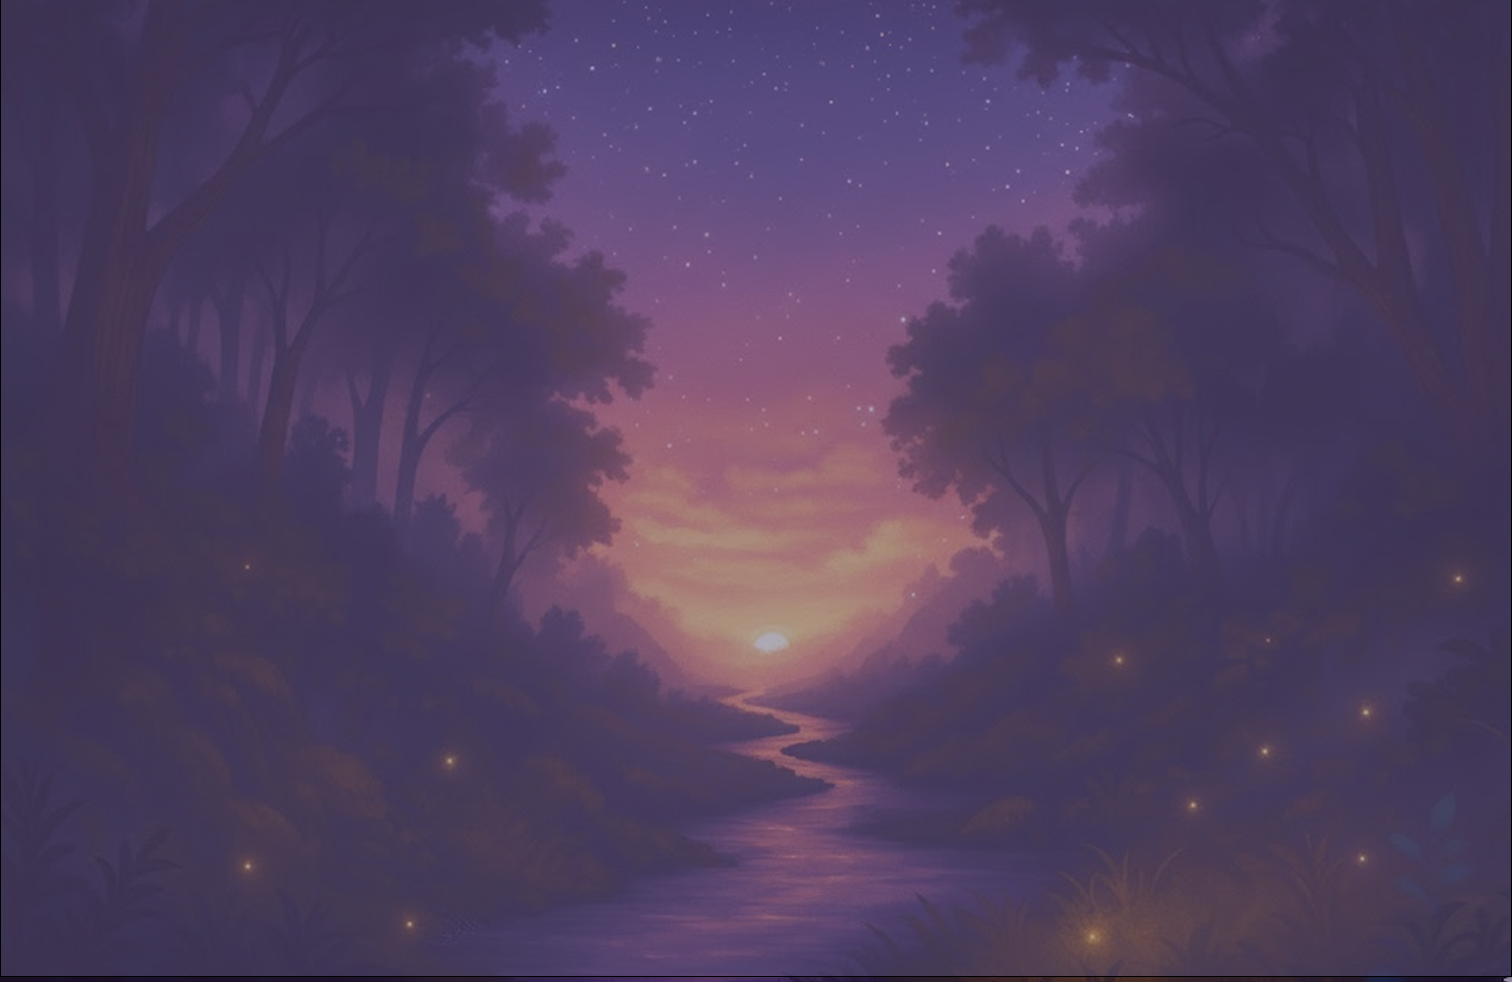
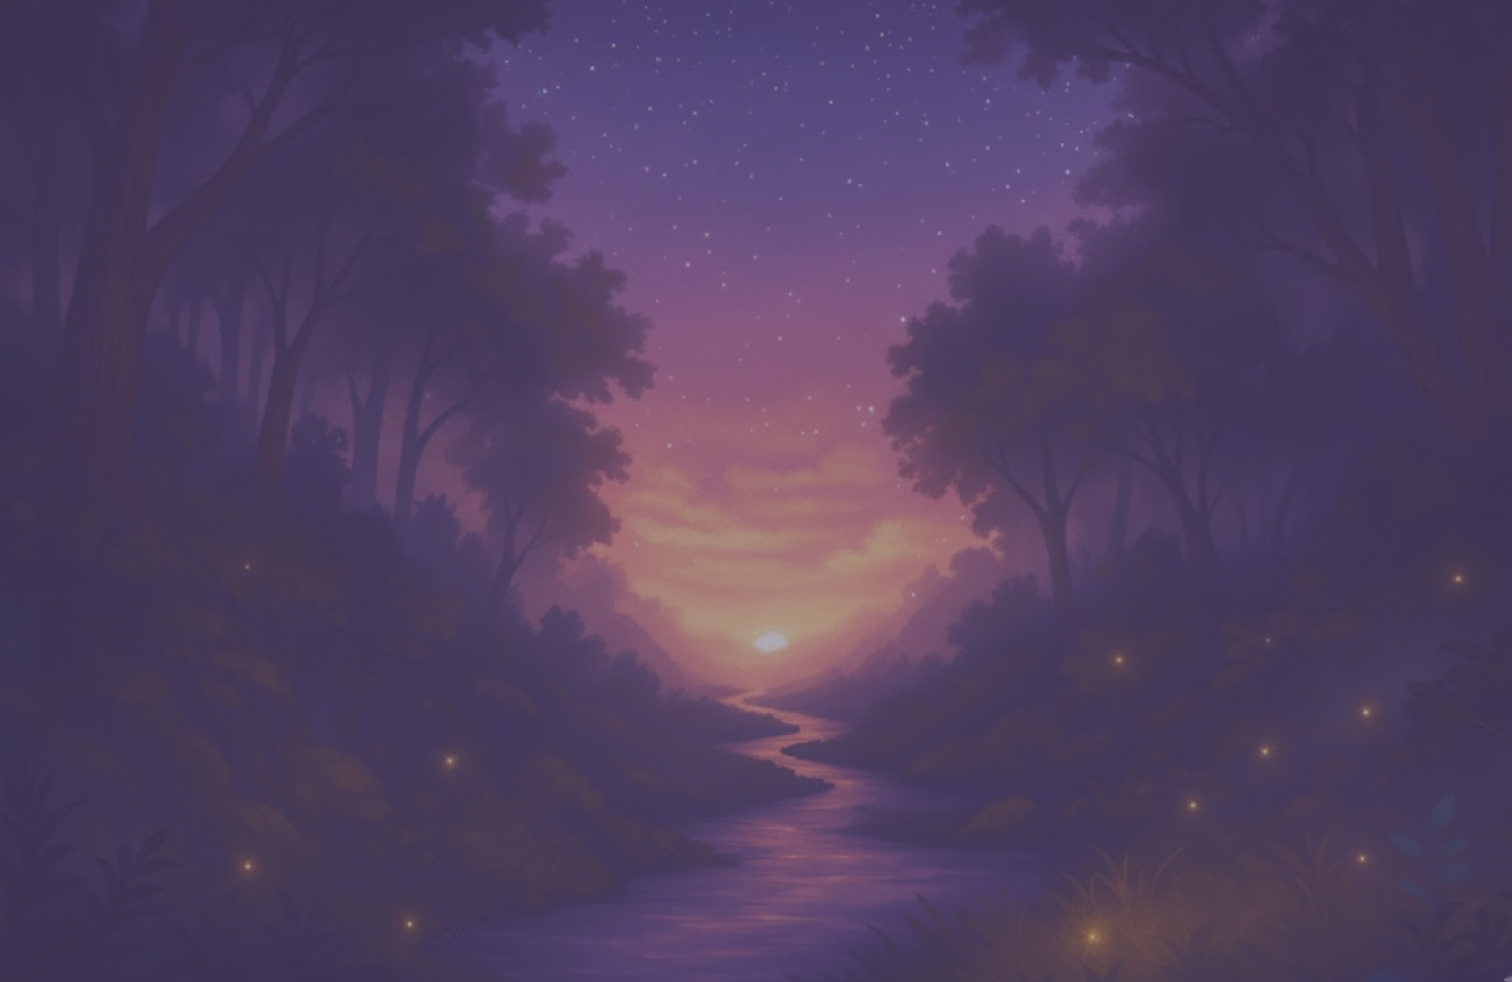
ui changes

Changed region(s): [[0.4974, 0.0, 1.0, 1.0], [0.0, 0.9776, 0.4041, 1.0]]

diff --git a/src/pages/Dashboard.tsx b/src/pages/Dashboard.tsx
@@ -11,7 +11,7 @@ import HeartIcon from "@/components/icons/HeartIcon";
 import EnergyIcon from "@/components/icons/EnergyIcon";
 import HungerIcon from "@/components/icons/HungerIcon";
 import StressIcon from "@/components/icons/StressIcon";
-import PhysicalIcon from "@/components/icons/PhysicalIcon";
+import { Moon } from "lucide-react";
 import TaskIcon from "@/components/icons/TaskIcon";
 import ChatIcon from "@/components/icons/ChatIcon";
 import SettingsIcon from "@/components/icons/SettingsIcon";
@@ -187,7 +187,7 @@ const Dashboard = () => {
     { icon: HungerIcon, value: 50, max: 100, description: "Hunger level and appetite. Higher is more full." },
     { icon: EnergyIcon, value: 50, max: 100, description: "Energy level and vitality" },
     { icon: StressIcon, value: 50, max: 100, description: "Stress balance and calmness. Higher is calmer." },
-    { icon: PhysicalIcon, value: 50, max: 100, description: "Physical wellness and fitness" },
+    { icon: Moon, value: 50, max: 100, description: "Sleep quality and restfulness." },
   ];
   const [scanSummary, setScanSummary] = useState<ScanSummary | null>(null);
   const [isSummaryModalOpen, setIsSummaryModalOpen] = useState<boolean>(false);
@@ -265,7 +265,7 @@ const Dashboard = () => {
             { icon: HungerIcon, value: data.hunger, max: 100, description: "Hunger level and appetite. Higher is more full." },
             { icon: EnergyIcon, value: data.energy_level, max: 100, description: "Energy level and vitality" },
             { icon: StressIcon, value: data.stress_level, max: 100, description: "Stress balance and calmness. Higher is calmer." },
-            { icon: PhysicalIcon, value: data.sleep_quality, max: 100, description: "Physical wellness and fitness" },
+            { icon: Moon, value: data.sleep_quality, max: 100, description: "Sleep quality and restfulness." },
         ];
         setStats(newStats);
         setNewTasks(buildTasksFromStats(statSnapshot));
@@ -325,7 +325,7 @@ const Dashboard = () => {
                 { icon: HungerIcon, value: message.data.hunger.score, max: 100, description: "Hunger level and appetite. Higher is more full." },
                 { icon: EnergyIcon, value: message.data.energy_level.score, max: 100, description: "Energy level and vitality" },
                 { icon: StressIcon, value: message.data.stress_level.score, max: 100, description: "Stress balance and calmness. Higher is calmer." },
-                { icon: PhysicalIcon, value: message.data.sleep_quality.score, max: 100, description: "Physical wellness and fitness" },
+                { icon: Moon, value: message.data.sleep_quality.score, max: 100, description: "Sleep quality and restfulness." },
             ];
             setStats(newStats);
             const statSnapshot = {
@@ -483,7 +483,7 @@ const Dashboard = () => {
             { icon: HungerIcon, value: data.hunger, max: 100, description: "Hunger level and appetite. Higher is more full." },
             { icon: EnergyIcon, value: data.energy_level, max: 100, description: "Energy level and vitality" },
             { icon: StressIcon, value: data.stress_level, max: 100, description: "Stress balance and calmness. Higher is calmer." },
-            { icon: PhysicalIcon, value: data.sleep_quality, max: 100, description: "Physical wellness and fitness" },
+            { icon: Moon, value: data.sleep_quality, max: 100, description: "Sleep quality and restfulness." },
         ];
         setStats(newStats);
         alert("Stats have been recomputed based on the latest scan.");
@@ -585,20 +585,20 @@ const Dashboard = () => {
         <div className="grid grid-cols-1 lg:grid-cols-[3fr_2fr] gap-8 -mt-1">
           {/* Left Column - Stats */}
           <div className="ml-4">
-          <div>
-            
             {/* Stats Bars */}
             <div className="space-y-5 mb-12">
               {stats.map((stat, index) => {
                 const Icon = stat.icon;
                 const colorClass = getColorClass(stat.value, stat.max);
+                // Check if this is the Moon icon (Physical wellness stat)
+                const isMoonIcon = stat.description === "Sleep quality and restfulness." || stat.description === "Physical wellness and fitness";
                 return (
                   <div key={index} className="relative">
                     <div className="flex items-center gap-3 bg-foreground/10 backdrop-blur-sm rounded-full p-2 pr-5">
                       <Tooltip>
                         <TooltipTrigger asChild>
                           <div className={`w-10 h-10 rounded-full ${colorClass} flex items-center justify-center flex-shrink-0 cursor-help`}>
-                            <Icon className="w-5 h-5 text-white" />
+                            <Icon className={`w-5 h-5 ${isMoonIcon ? 'text-primary-accent' : 'text-white'}`} />
                           </div>
                         </TooltipTrigger>
                         <TooltipContent>
@@ -624,40 +624,40 @@ const Dashboard = () => {
 
             {/* Raw Vitals Snapshot */}
             <div className="grid grid-cols-2 gap-4">
-              <div className="bg-foreground/90 backdrop-blur-sm rounded-3xl p-6 space-y-3">
-                <h3 className="text-background text-sm uppercase tracking-wide">scan vitals</h3>
-                <div className="flex flex-col gap-2 text-background/90 text-sm">
+              <div className="bg-foreground/10 backdrop-blur-sm rounded-3xl px-6 pt-4 pb-6 space-y-3">
+                <h3 className="text-white text-lg uppercase tracking-wide inder-text font-semibold mb-2">scan vitals</h3>
+                <div className="flex flex-col gap-2 text-white/90 text-sm inder-text">
                   <div className="flex justify-between">
                     <span>Pulse</span>
-                    <span>{scanVitals?.pulse?.[0] ?? "--"} bpm</span>
+                    <span className="font-medium">{scanVitals?.pulse?.[0] ?? "--"} bpm</span>
                   </div>
                   <div className="flex justify-between">
                     <span>Breathing</span>
-                    <span>{scanVitals?.breathing?.[0] ?? "--"} rpm</span>
+                    <span className="font-medium">{scanVitals?.breathing?.[0] ?? "--"} rpm</span>
                   </div>
                   <div className="flex justify-between">
                     <span>Inhale/Exhale Ratio</span>
-                    <span>{scanVitals?.ie_ratio?.[0] ?? "--"}</span>
+                    <span className="font-medium">{scanVitals?.ie_ratio?.[0] ?? "--"}</span>
                   </div>
                   <div className="flex justify-between">
                     <span>Breath Amplitude</span>
-                    <span>{scanVitals?.breath_amp?.[0] ?? "--"}</span>
+                    <span className="font-medium">{scanVitals?.breath_amp?.[0] ?? "--"}</span>
                   </div>
                   <div className="flex justify-between">
                     <span>Blood Pressure (phasic)</span>
-                    <span>{scanVitals?.blood_pressure?.[0] ?? "--"}</span>
+                    <span className="font-medium">{scanVitals?.blood_pressure?.[0] ?? "--"}</span>
                   </div>
                   <div className="flex justify-between">
                     <span>Apnea</span>
-                    <span>{scanVitals?.apnea?.[0] ?? "--"}</span>
+                    <span className="font-medium">{scanVitals?.apnea?.[0] ?? "--"}</span>
                   </div>
                 </div>
               </div>
               
-              <div className="bg-foreground/90 backdrop-blur-sm rounded-3xl p-6 flex flex-col gap-3">
-                <h3 className="text-background text-sm uppercase tracking-wide">gpt analysis summary</h3>
+              <div className="bg-foreground/10 backdrop-blur-sm rounded-3xl px-6 pt-4 pb-6 flex flex-col gap-2">
+                <h3 className="text-white text-lg uppercase tracking-wide inder-text font-semibold mb-2">gpt analysis summary</h3>
                 {scanSummary ? (
-                  <div className="space-y-3 text-background/90 text-sm">
+                  <div className="space-y-3 text-white text-sm inder-text">
                     {(["overall_health","hunger","energy_level","stress_level","sleep_quality"] as Array<keyof ScanSummary>).map((key) => {
                       const entry = scanSummary[key];
                       return (
@@ -666,17 +666,16 @@ const Dashboard = () => {
                             <span>{key.replace("_"," ")}</span>
                             <span>{entry.score}/100</span>
                           </div>
-                          <p className="text-xs text-background/70">{entry.justification}</p>
+                          <p className="text-sm text-white/70">{entry.justification}</p>
                         </div>
                       );
                     })}
                   </div>
                 ) : (
-                  <p className="text-background/70 text-xs">
+                  <p className="text-white/90 text-sm inder-text">
                     Run a scan to trigger the GPT summary of your vitals.
                   </p>
                 )}
-              </div>
               </div>
             </div>
           </div>

diff --git a/src/components/ChatModal.tsx b/src/components/ChatModal.tsx
@@ -232,7 +232,7 @@ const ChatModal = ({ open, onOpenChange, onStatsUpdate }: ChatModalProps) => {
           {/* Input Field */}
           <div className="absolute bottom-0 left-0 right-0 p-10 bg-transparent">
             <form onSubmit={handleSendMessage} className="relative space-y-3">
-              <div className="flex items-center gap-3 justify-between px-2">
+              <div className="flex items-center gap-3 justify- ml-4 px-2">
                 <label className="inline-flex items-center gap-2 text-primary-accent/80 text-sm cursor-pointer">
                   <input
                     ref={fileInputRef}
@@ -263,7 +263,7 @@ const ChatModal = ({ open, onOpenChange, onStatsUpdate }: ChatModalProps) => {
                 placeholder="Tell Lumi what you need..."
                 className="w-full bg-white/90 rounded-full px-12 py-7 text-primary-accent placeholder:text-primary-accent/70 shadow-lg text-center border-none focus:ring-0 focus:outline-none !text-lg placeholder:!text-lg"
               />
-              <ChatIcon className="absolute left-12 top-[65%] -translate-y-1/2 h-7 w-7 text-primary-accent pointer-events-none" />
+              <ChatIcon className="absolute left-6 top-[53%] -translate-y-1/2 h-7 w-7 text-primary-accent/90 pointer-events-none" />
             </form>
           </div>
         </div>
